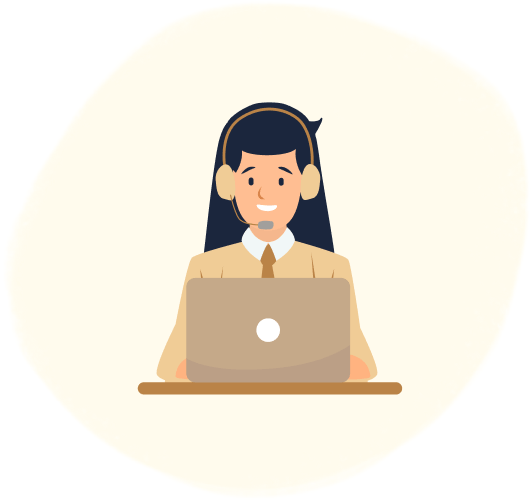
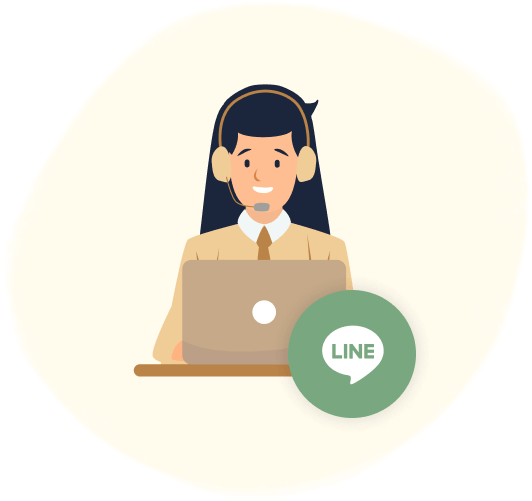
feat: 新增tooltip

Changed region(s): [[0.2406, 0.1497, 0.782, 0.8383]]

diff --git a/src/views/the-landing-page.vue b/src/views/the-landing-page.vue
@@ -52,12 +52,11 @@
             <div class="inner">
               <img class="text-bg" :src="TextBg" alt="">
               <div class="dot-area">
-                <img class="dot" :src="Dot" alt="">
-                <img class="dot scale-x-[-1]" :src="Dot" alt="">
+                <img class="dot translate-y-[-100%]" :src="Dot" alt="">
+                <p>Miss Eco透過循環餐盒外送餐點，<br>活動餐點不會產生任何一次性垃圾，<br>打造永續新日常，讓環保再也不麻煩！</p>
+                <img class="dot scale-x-[-1] translate-y-[-100%]" :src="Dot" alt="">
               </div>
-              <p>Miss Eco透過循環餐盒外送餐點，<br>活動餐點不會產生任何一次性垃圾，<br>打造永續新日常，讓環保再也不麻煩！</p>
-            </div>  
-
+            </div>
           </div>
         </div>
         <div class="bottom">
@@ -68,10 +67,11 @@
             <div class="inner">
               <img class="text-bg" :src="TextBg" alt="">
               <div class="dot-area">
-                <img class="dot" :src="Dot" alt="">
-                <img class="dot scale-x-[-1]" :src="Dot" alt="">
+                <img class="dot translate-y-[-100%]" :src="Dot" alt="">
+                <p>我們相信人們<br>不是不環保不愛海龜、討厭北極熊<br>而是忙碌生活中，缺少便利又環保的新選擇！</p>
+                <img class="dot scale-x-[-1] translate-y-[-100%]" :src="Dot" alt="">
               </div>
-              <p>我們相信人們<br>不是不環保不愛海龜、討厭北極熊<br>而是忙碌生活中，缺少便利又環保的新選擇！</p>
+              <!-- <p>我們相信人們<br>不是不環保不愛海龜、討厭北極熊<br>而是忙碌生活中，缺少便利又環保的新選擇！</p> -->
             </div>
           </div>
         </div>
@@ -98,13 +98,21 @@
                 <p>減少免洗餐具的碳排<br>推廣健康永續的低碳美食</p>
               </div>
             </div>
-            <div class="item">
-              <img :src="Light3" alt="">
-              <div class="word-area">
-                <h5 class="title">即時客服</h5>
-                <p>溫馨客服陪同下單到回收<br>LINE一站式便利又安心</p>
+            <a href="https://line.me/R/ti/p/@595oomwf" target="_blank">
+              <div class="item">
+                <q-tooltip
+                  anchor="center middle"
+                  :style="{'font-size': '14px'}"
+                >
+                  點我加入官方Line@
+                </q-tooltip>
+                <img :src="Light3" alt="">
+                <div class="word-area">
+                  <h5 class="title">即時客服</h5>
+                  <p>溫馨客服陪同下單到回收<br>LINE一站式便利又安心</p>
+                </div>
               </div>
-            </div>
+            </a>
           </div>
         </div>
       </div>
@@ -130,7 +138,15 @@
                     <p class="description">請於至少三天前訂餐<br>餐點滿$2000即送</p>
                   </div> 
                   <div class="main-img">
-                    <img :src="Tt1" alt="">
+                    <a href="https://line.me/R/ti/p/@595oomwf" target="_blank">
+                      <img :src="Tt1" alt="">
+                      <q-tooltip
+                        anchor="center middle"
+                        :style="{'font-size': '14px'}"
+                      >
+                        點我加入官方Line@
+                      </q-tooltip>
+                    </a>
                   </div>
                 </div>
                
@@ -684,7 +700,11 @@ const dialog = ref(false)
           top: 0
         .dot-area
           display: flex
-          justify-content: space-between
+          justify-content: center
+          align-items: flex-start
+          // border: solid 10px green
+          p
+            padding: 0px 10px
         .dot
           width: 30px
     .bottom
@@ -900,7 +920,7 @@ const dialog = ref(false)
               padding: 0px 15px
             p
               transform: translateY(0px)
-              padding: 0px 50px
+              padding: 0px 20px
         .left
           position: relative
           // overflow-y: hidden
@@ -1132,6 +1152,7 @@ const dialog = ref(false)
         .right
           p
             font-size: 14px
+            padding: 0px 10px !important
       .top
         .left
           img
